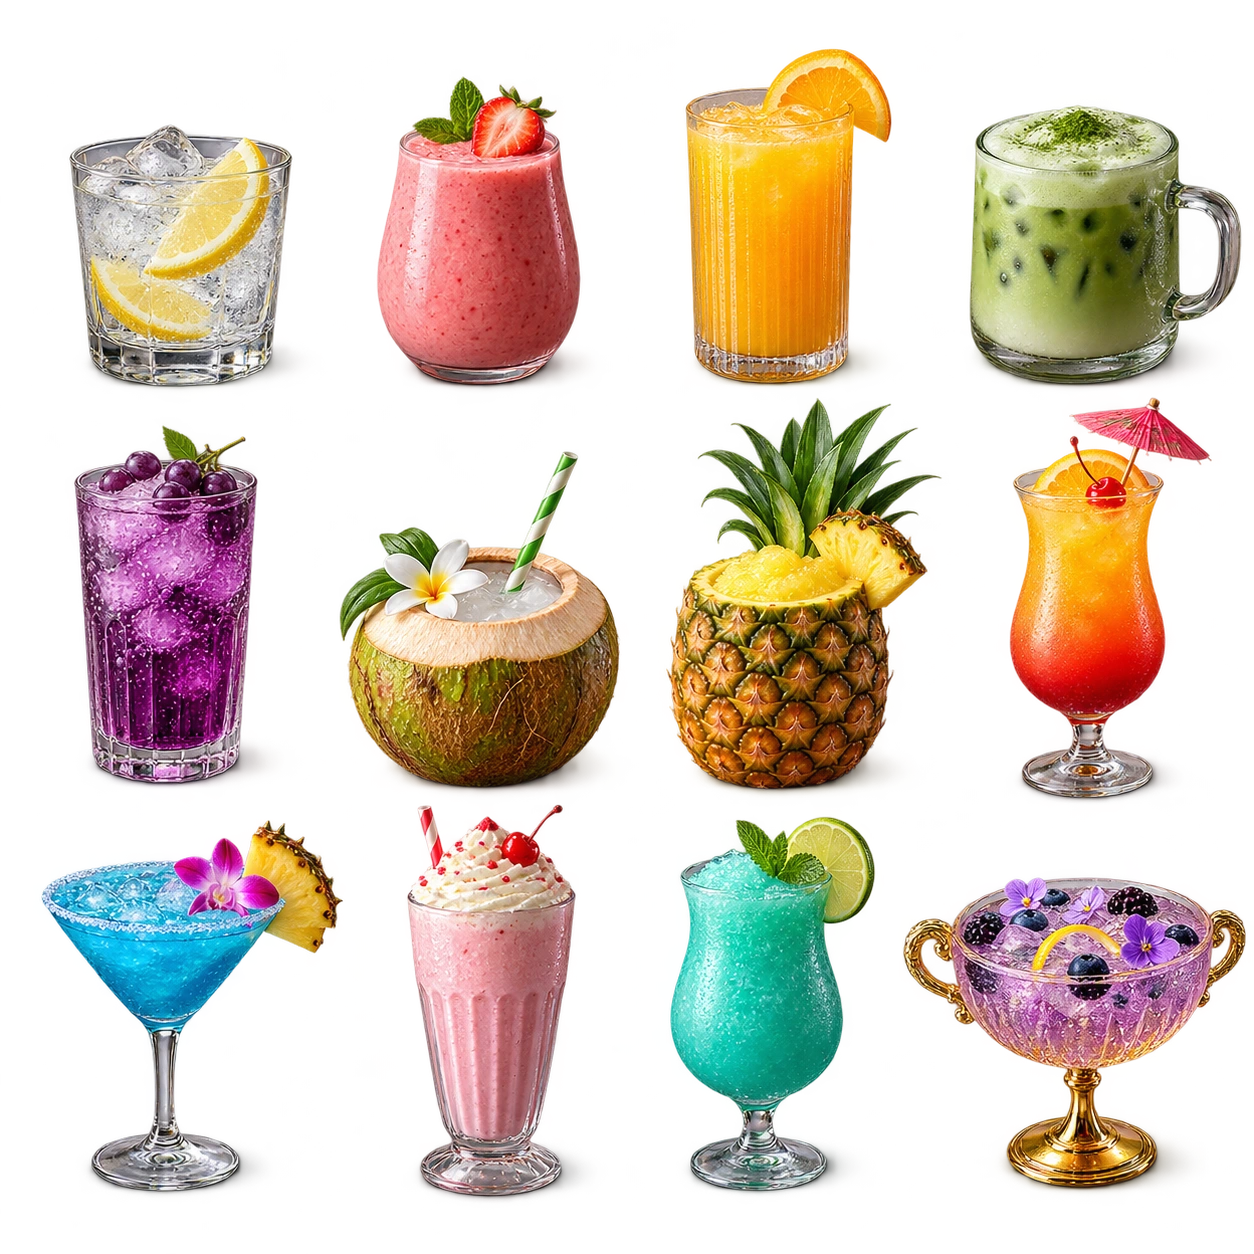
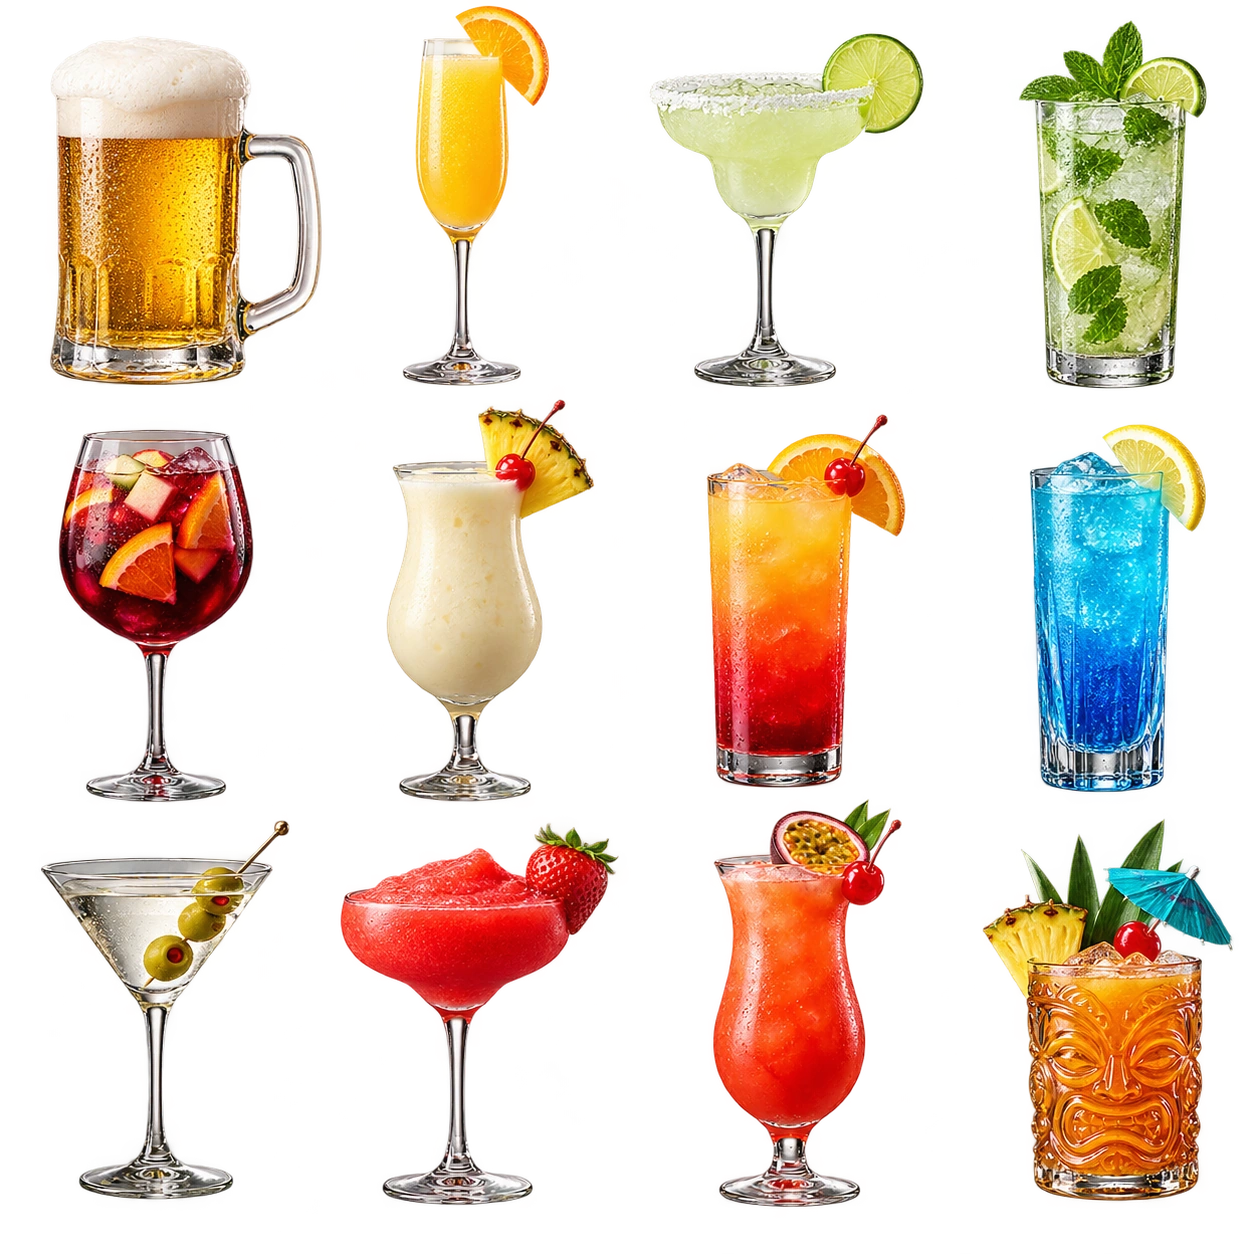
Add files via upload

diff --git a/games/juiceslide/game.js b/games/juiceslide/game.js
@@ -1,7 +1,9 @@
-(function(){'use strict';var A=Arcade,backdrop=new Image();backdrop.src='beach-board.webp';var atlas=new Image();atlas.src='drinks-atlas.webp';var s,drinks=[],effects=[],time=0,launchX=0,aimX=0,aimY=-1,dragging=false,wait=0,settle=0,ended=false;var labels=['Water','Berry','Citrus','Matcha','Grape soda','Coconut','Pineapple','Sunset','Blue lagoon','Milkshake','Slush','Royal punch'];var colors=['#9bd9ef','#ec466c','#f3ac35','#7dd456','#974bca','#f7e8ca','#f8d349','#ff895d','#5cbce7','#ff8dd5','#82e8e3','#d9beff'];function defaults(){return{physicsVersion:2,score:0,best:0,unlocked:2,next:1,shots:0,drinks:[]};}function init(){s=A.data;if(s.physicsVersion!==2){var old=s;s=defaults();s.best=old.best||0;s.unlocked=Math.max(2,old.unlocked||2);A.data=s;}drinks=Array.isArray(s.drinks)?s.drinks.map(function(d){return{x:d.x,y:d.y,tier:d.tier,r:radius(d.tier),vx:0,vy:0,age:2};}):[];if(!drinks.length){drinks=[make(-.45,.22,1),make(0,.22,2),make(.45,.22,1)];}document.getElementById('shoot').onclick=shoot;document.getElementById('swap').onclick=swap;hud();}function make(x,y,tier){return{x:x,y:y,tier:tier,r:radius(tier),vx:0,vy:0,age:0};}function radius(tier){return .13+Math.min(11,tier)*.016;}function save(){s.drinks=drinks.map(function(d){return{x:d.x,y:d.y,tier:d.tier};});A.save();}function hud(){A.hud(s.score+' pts','Best '+s.best+' · '+Math.min(12,s.unlocked)+'/12');}function restart(){var best=s.best,unlocked=s.unlocked;s=defaults();s.best=best;s.unlocked=unlocked;A.data=s;drinks=[make(-.45,.22,1),make(0,.22,2),make(.45,.22,1)];effects=[];wait=0;settle=0;ended=false;launchX=0;hud();save();}function swap(){if(wait>0||ended)return;s.next=s.next===1?2:1;A.beep(470,.07);hud();}function shoot(){if(wait>0||ended||A.dialogOpen())return;var d=make(launchX,2.22,s.next);d.vx=aimX*3.5;d.vy=aimY*3.5;d.travel=true;drinks.push(d);s.shots++;s.next=Math.random()<.57?1:Math.random()<.65?2:Math.min(3,s.unlocked);wait=.5;settle=0;A.beep(360,.1);hud();}function merge(i,j){var a=drinks[i],b=drinks[j],rank=Math.min(12,a.tier+1),x=(a.x+b.x)/2,y=(a.y+b.y)/2,vx=(a.vx+b.vx)*.4,vy=(a.vy+b.vy)*.4;drinks.splice(j,1);drinks.splice(i,1);var d=make(x,y,rank);d.vx=vx;d.vy=vy;drinks.push(d);var points=Math.pow(2,Math.min(rank,12))*5;s.score+=points;s.best=Math.max(s.best,s.score);effects.push({x:x,y:y,t:1,tier:rank,text:'+'+points});if(rank>s.unlocked){s.unlocked=rank;A.toast('NEW DRINK · '+labels[rank-1].toUpperCase());}A.beep(460+rank*55,.13);hud();save();}function tick(dt){time+=dt;wait=Math.max(0,wait-dt);if(ended)return;for(var sub=0;sub<4;sub++){var h=dt/4;for(var i=0;i<drinks.length;i++){var d=drinks[i];d.age+=h;d.x+=d.vx*h;d.y+=d.vy*h;var drag=d.travel?.22:2.8;d.vx*=Math.exp(-drag*h);d.vy*=Math.exp(-drag*h);if(d.x-d.r<-.95){d.x=-.95+d.r;d.vx=Math.abs(d.vx)*.7;}if(d.x+d.r>.95){d.x=.95-d.r;d.vx=-Math.abs(d.vx)*.7;}if(d.y-d.r<.06){d.y=.06+d.r;d.vy=Math.abs(d.vy)*.08;d.travel=false;}}
+(function(){'use strict';var A=Arcade,backdrop=new Image();backdrop.src='beach-board.webp';var atlas=new Image();atlas.src='drinks-atlas.webp';var s,drinks=[],effects=[],time=0,launchX=0,aimX=0,aimY=-1,dragging=false,wait=0,settle=0,ended=false;var labels=['Beer','Mimosa','Margarita','Mojito','Sangria','Piña colada','Tequila sunrise','Blue lagoon','Martini','Strawberry daiquiri','Hurricane','Rum punch'];var colors=['#e8a72c','#ffb339','#c5e76b','#73ce78','#b91956','#fff0c3','#ff6734','#20b8f1','#c5d8a0','#ed3656','#ff795b','#df9b35'];function defaults(){return{physicsVersion:2,score:0,best:0,unlocked:2,next:1,shots:0,drinks:[]};}function init(){s=A.data;if(s.physicsVersion!==2){var old=s;s=defaults();s.best=old.best||0;s.unlocked=Math.max(2,old.unlocked||2);A.data=s;}drinks=Array.isArray(s.drinks)?s.drinks.map(function(d){return{x:d.x,y:d.y,tier:d.tier,r:radius(d.tier),vx:0,vy:0,age:2};}):[];if(!drinks.length){drinks=[make(-.45,.22,1),make(0,.22,2),make(.45,.22,1)];}document.getElementById('shoot').onclick=shoot;document.getElementById('swap').onclick=swap;hud();}function make(x,y,tier){return{x:x,y:y,tier:tier,r:radius(tier),vx:0,vy:0,age:0};}function radius(tier){return .13+Math.min(11,tier)*.016;}function save(){s.drinks=drinks.map(function(d){return{x:d.x,y:d.y,tier:d.tier};});A.save();}function hud(){A.hud(s.score+' pts','Best '+s.best+' · '+Math.min(12,s.unlocked)+'/12');}function restart(){var best=s.best,unlocked=s.unlocked;s=defaults();s.best=best;s.unlocked=unlocked;A.data=s;drinks=[make(-.45,.22,1),make(0,.22,2),make(.45,.22,1)];effects=[];wait=0;settle=0;ended=false;launchX=0;hud();save();}function swap(){if(wait>0||ended)return;s.next=s.next===1?2:1;A.beep(470,.07);hud();}function shoot(){if(wait>0||ended||A.dialogOpen())return;var d=make(launchX,2.22,s.next);d.vx=aimX*3.5;d.vy=aimY*3.5;d.travel=true;drinks.push(d);s.shots++;s.next=Math.random()<.57?1:Math.random()<.65?2:Math.min(3,s.unlocked);wait=.5;settle=0;A.beep(360,.1);hud();}function merge(i,j){var a=drinks[i],b=drinks[j],rank=Math.min(12,a.tier+1),x=(a.x+b.x)/2,y=(a.y+b.y)/2,vx=(a.vx+b.vx)*.4,vy=(a.vy+b.vy)*.4;drinks.splice(j,1);drinks.splice(i,1);var d=make(x,y,rank);d.vx=vx;d.vy=vy;drinks.push(d);var points=Math.pow(2,Math.min(rank,12))*5;s.score+=points;s.best=Math.max(s.best,s.score);effects.push({x:x,y:y,t:1,tier:rank,text:'+'+points});if(rank>s.unlocked){s.unlocked=rank;A.toast('NEW DRINK · '+labels[rank-1].toUpperCase());}A.beep(460+rank*55,.13);hud();save();}function tick(dt){time+=dt;wait=Math.max(0,wait-dt);if(ended)return;for(var sub=0;sub<4;sub++){var h=dt/4;for(var i=0;i<drinks.length;i++){var d=drinks[i];d.age+=h;d.x+=d.vx*h;d.y+=d.vy*h;var drag=d.travel?.22:2.8;d.vx*=Math.exp(-drag*h);d.vy*=Math.exp(-drag*h);if(d.x-d.r<-.95){d.x=-.95+d.r;d.vx=Math.abs(d.vx)*.7;}if(d.x+d.r>.95){d.x=.95-d.r;d.vx=-Math.abs(d.vx)*.7;}if(d.y-d.r<.06){d.y=.06+d.r;d.vy=Math.abs(d.vy)*.08;d.travel=false;}}
  for(i=0;i<drinks.length;i++)for(var j=i+1;j<drinks.length;j++){var a=drinks[i],b=drinks[j],dx=b.x-a.x,dy=b.y-a.y,dist=Math.sqrt(dx*dx+dy*dy)||.00001,min=a.r+b.r;if(dist>=min)continue;a.travel=false;b.travel=false;if(a.tier===b.tier&&a.age>.12&&b.age>.12){merge(i,j);i=-1;break;}var nx=dx/dist,ny=dy/dist,over=(min-dist)*.5;a.x-=nx*over;a.y-=ny*over;b.x+=nx*over;b.y+=ny*over;var rel=(b.vx-a.vx)*nx+(b.vy-a.vy)*ny;if(rel<0){a.vx+=rel*nx*.7;a.vy+=rel*ny*.7;b.vx-=rel*nx*.7;b.vy-=rel*ny*.7;}}}
  effects=effects.filter(function(p){p.t-=dt;return p.t>0;});var speed=drinks.reduce(function(sum,d){return sum+Math.abs(d.vx)+Math.abs(d.vy);},0);settle=speed<.1?settle+dt:0;if(settle>.7&&drinks.some(function(d){return d.y+d.r>2.05&&d.age>1.2;})){ended=true;save();A.show('The table is full','<p>You scored '+s.score+' points. Merge matching drinks before they reach the launch line.</p>',[['Fresh table',restart,'primary']]);}if(Math.floor(time*2)!==Math.floor((time-dt)*2))save();}
 function table(W,H){var wide=W>H*1.3,top=H*.13,bottom=H*.85,width=Math.min(W*.89,wide?H*1.8:W*.89);return{x:W/2,top:top,h:bottom-top,w:width};}function project(x,y,W,H){var b=table(W,H),q=y/2.45,span=b.w*(.69+.31*q);return{x:b.x+x*span/2,y:b.top+q*b.h,scale:(.65+.35*q)};}function unproject(x,y){var b=table(A.w,A.h),q=(y-b.top)/b.h,span=b.w*(.69+.31*q);return{x:(x-b.x)/(span/2),y:q*2.45};}
-function glass(c,x,y,w,h,tier,scale){if(atlas.complete&&atlas.naturalWidth){var cw=atlas.naturalWidth/4,ch=atlas.naturalHeight/3,idx=Math.min(11,tier-1);c.drawImage(atlas,(idx%4)*cw,Math.floor(idx/4)*ch,cw,ch,x-w*.67,y-h*.70,w*1.34,h*1.18);}else{A.round(c,x-w/2,y-h/2,w,h,8,colors[tier-1]);}}
+// Individual source rectangles preserve wide glass handles and tall garnishes.
+var drinkRects=[[0,0,336,400],[360,0,240,395],[630,15,320,385],[990,0,264,400],[20,405,280,405],[350,388,260,422],[675,403,270,397],[985,405,245,405],[25,810,285,405],[325,810,305,405],[680,800,260,420],[960,810,294,410]];
+function glass(c,x,y,w,h,tier,scale){if(atlas.complete&&atlas.naturalWidth){var idx=Math.min(11,tier-1),rect=drinkRects[idx],sx=atlas.naturalWidth/1254,sy=atlas.naturalHeight/1254;c.drawImage(atlas,rect[0]*sx,rect[1]*sy,rect[2]*sx,rect[3]*sy,x-w*.67,y-h*.70,w*1.34,h*1.18);}else{A.round(c,x-w/2,y-h/2,w,h,8,colors[tier-1]);}}
 
-function draw(c,W,H){if(!A.viewport){if(backdrop.complete&&backdrop.naturalWidth)c.drawImage(backdrop,0,0,W,H);else{c.fillStyle='#48c2dc';c.fillRect(0,0,W,H);}}var b=table(W,H),a=project(-1,0,W,H),r=project(1,0,W,H),d=project(1,2.45,W,H),l=project(-1,2.45,W,H);c.shadowColor='#653012aa';c.shadowBlur=18;c.shadowOffsetY=12;c.beginPath();c.moveTo(a.x,a.y);c.lineTo(r.x,r.y);c.lineTo(d.x,d.y);c.lineTo(l.x,l.y);c.closePath();var wood=c.createLinearGradient(0,b.top,0,b.top+b.h);wood.addColorStop(0,'#ecac4f');wood.addColorStop(.5,'#d47b29');wood.addColorStop(1,'#b75c24');c.fillStyle=wood;c.fill();c.shadowBlur=0;c.shadowOffsetY=0;c.strokeStyle='#ffe5a0';c.lineWidth=5;c.stroke();for(var k=1;k<7;k++){var x=-1+k*2/7,u=project(x,0,W,H),v=project(x,2.45,W,H);c.strokeStyle='#8e431d60';c.lineWidth=2;c.beginPath();c.moveTo(u.x,u.y);c.lineTo(v.x,v.y);c.stroke();}for(k=0;k<34;k++){var y=(k*.073)%2.45,u=project(-.9+(k%4)*.48,y,W,H),v=project(-.6+(k%4)*.48,y+.008,W,H);c.strokeStyle='#ffe4a329';c.lineWidth=1;c.beginPath();c.moveTo(u.x,u.y);c.lineTo(v.x,v.y);c.stroke();}var launchL=project(-.95,2.05,W,H),launchR=project(.95,2.05,W,H);c.setLineDash([7,5]);c.strokeStyle='#fff7d7';c.lineWidth=2;c.beginPath();c.moveTo(launchL.x,launchL.y);c.lineTo(launchR.x,launchR.y);c.stroke();c.setLineDash([]);drinks.slice().sort(function(a,b){return a.y-b.y;}).forEach(function(d){var p=project(d.x,d.y,W,H),w=d.r*b.w*1.15*p.scale,h=w*1.55;glass(c,p.x,p.y-h*.22,w,h,d.tier,1);});var next=project(launchX,2.22,W,H),nr=radius(s.next),nw=nr*b.w*1.2;if(wait<=0){c.strokeStyle='#ffffffaa';c.setLineDash([4,7]);c.lineWidth=2;c.beginPath();c.moveTo(next.x,next.y-10);var end=project(launchX+aimX*.7,2.22+aimY*.7,W,H);c.lineTo(end.x,end.y);c.stroke();c.setLineDash([]);glass(c,next.x,next.y-nw*.3,nw,nw*1.55,s.next,1);}effects.forEach(function(e){var p=project(e.x,e.y,W,H);c.globalAlpha=e.t;c.strokeStyle=colors[Math.min(11,e.tier-1)];c.lineWidth=4;c.beginPath();c.arc(p.x,p.y,(1-e.t)*50+10,0,7);c.stroke();A.label(c,e.text,p.x,p.y-30-(1-e.t)*40,18,'#fff7c7');c.globalAlpha=1;});A.round(c,8,7,Math.min(142,W*.4),30,9,'#12558cde');A.label(c,'NEXT · '+labels[s.next-1].toUpperCase(),17,22,Math.min(12,W*.03),'#fff','left');A.round(c,W*.08,H*.91,W*.84,H*.065,9,'#113e65e8');for(k=1;k<=12;k++){var xx=W*.1+(k-.5)*W*.8/12;c.fillStyle=k<=s.unlocked?colors[k-1]:'#6d8798';c.beginPath();c.arc(xx,H*.94,Math.min(8,W*.015),0,7);c.fill();if(k<=s.unlocked)glass(c,xx,H*.94,Math.min(22,W*.047),Math.min(27,W*.06),k,1);}A.label(c,'SLIDE · COLLIDE · MERGE',W/2,H*.885,Math.min(11,W*.028),'#fff');}function aim(x,y){var p=unproject(x,y);if(p.y>=1.95){launchX=Math.max(-.75,Math.min(.75,p.x));aimX=0;aimY=-1;}else{var dx=p.x-launchX,dy=Math.min(-.2,p.y-2.22),len=Math.sqrt(dx*dx+dy*dy);aimX=dx/len;aimY=dy/len;}}function down(x,y){if(wait>0||ended)return;dragging=true;aim(x,y);}function drag(x,y){if(dragging)aim(x,y);}function up(x,y){if(!dragging)return;dragging=false;aim(x,y);shoot();}A.start({key:'goobs.juiceslide.v1',defaults:defaults,init:init,restart:restart,tick:tick,draw:draw,down:down,drag:drag,up:up,cancel:function(){dragging=false;},help:'<ul><li>Drag the waiting drink left or right along the launch line. Drag toward the table to aim an angled shot, then release.</li><li>Drinks slide and bump freely. Equal drinks merge into a new recipe when they touch.</li><li>Use side walls for bank shots. Keep settled drinks above the dashed launch line.</li><li>Swap changes the waiting drink; the row along the bottom shows your unlocked recipes.</li></ul>'});})();
+function draw(c,W,H){if(!A.viewport){if(backdrop.complete&&backdrop.naturalWidth)c.drawImage(backdrop,0,0,W,H);else{c.fillStyle='#48c2dc';c.fillRect(0,0,W,H);}}var b=table(W,H),a=project(-1,0,W,H),r=project(1,0,W,H),d=project(1,2.45,W,H),l=project(-1,2.45,W,H);c.shadowColor='#653012aa';c.shadowBlur=18;c.shadowOffsetY=12;c.beginPath();c.moveTo(a.x,a.y);c.lineTo(r.x,r.y);c.lineTo(d.x,d.y);c.lineTo(l.x,l.y);c.closePath();var wood=c.createLinearGradient(0,b.top,0,b.top+b.h);wood.addColorStop(0,'#ecac4f');wood.addColorStop(.5,'#d47b29');wood.addColorStop(1,'#b75c24');c.fillStyle=wood;c.fill();c.shadowBlur=0;c.shadowOffsetY=0;c.strokeStyle='#ffe5a0';c.lineWidth=5;c.stroke();for(var k=1;k<7;k++){var x=-1+k*2/7,u=project(x,0,W,H),v=project(x,2.45,W,H);c.strokeStyle='#8e431d60';c.lineWidth=2;c.beginPath();c.moveTo(u.x,u.y);c.lineTo(v.x,v.y);c.stroke();}for(k=0;k<34;k++){var y=(k*.073)%2.45,u=project(-.9+(k%4)*.48,y,W,H),v=project(-.6+(k%4)*.48,y+.008,W,H);c.strokeStyle='#ffe4a329';c.lineWidth=1;c.beginPath();c.moveTo(u.x,u.y);c.lineTo(v.x,v.y);c.stroke();}var launchL=project(-.95,2.05,W,H),launchR=project(.95,2.05,W,H);c.setLineDash([7,5]);c.strokeStyle='#fff7d7';c.lineWidth=2;c.beginPath();c.moveTo(launchL.x,launchL.y);c.lineTo(launchR.x,launchR.y);c.stroke();c.setLineDash([]);drinks.slice().sort(function(a,b){return a.y-b.y;}).forEach(function(d){var p=project(d.x,d.y,W,H),w=d.r*b.w*1.15*p.scale,h=w*1.55;glass(c,p.x,p.y-h*.22,w,h,d.tier,1);});var next=project(launchX,2.22,W,H),nr=radius(s.next),nw=nr*b.w*1.2;if(wait<=0){c.strokeStyle='#ffffffaa';c.setLineDash([4,7]);c.lineWidth=2;c.beginPath();c.moveTo(next.x,next.y-10);var end=project(launchX+aimX*.7,2.22+aimY*.7,W,H);c.lineTo(end.x,end.y);c.stroke();c.setLineDash([]);glass(c,next.x,next.y-nw*.3,nw,nw*1.55,s.next,1);}effects.forEach(function(e){var p=project(e.x,e.y,W,H);c.globalAlpha=e.t;c.strokeStyle=colors[Math.min(11,e.tier-1)];c.lineWidth=4;c.beginPath();c.arc(p.x,p.y,(1-e.t)*50+10,0,7);c.stroke();A.label(c,e.text,p.x,p.y-30-(1-e.t)*40,18,'#fff7c7');c.globalAlpha=1;});var nextLabel='NEXT · '+labels[s.next-1].toUpperCase(),badgeW=Math.min(195,W*.53);A.round(c,8,7,badgeW,30,9,'#12558cde');A.label(c,nextLabel,17,22,Math.min(12,W*.03,(badgeW-18)/(nextLabel.length*.66)),'#fff','left');A.round(c,W*.08,H*.91,W*.84,H*.065,9,'#113e65e8');for(k=1;k<=12;k++){var xx=W*.1+(k-.5)*W*.8/12;c.fillStyle=k<=s.unlocked?colors[k-1]:'#6d8798';c.beginPath();c.arc(xx,H*.94,Math.min(8,W*.015),0,7);c.fill();if(k<=s.unlocked)glass(c,xx,H*.94,Math.min(22,W*.047),Math.min(27,W*.06),k,1);}A.label(c,'SLIDE · COLLIDE · MERGE',W/2,H*.885,Math.min(11,W*.028),'#fff');}function aim(x,y){var p=unproject(x,y);if(p.y>=1.95){launchX=Math.max(-.75,Math.min(.75,p.x));aimX=0;aimY=-1;}else{var dx=p.x-launchX,dy=Math.min(-.2,p.y-2.22),len=Math.sqrt(dx*dx+dy*dy);aimX=dx/len;aimY=dy/len;}}function down(x,y){if(wait>0||ended)return;dragging=true;aim(x,y);}function drag(x,y){if(dragging)aim(x,y);}function up(x,y){if(!dragging)return;dragging=false;aim(x,y);shoot();}A.start({key:'goobs.juiceslide.v1',defaults:defaults,init:init,restart:restart,tick:tick,draw:draw,down:down,drag:drag,up:up,cancel:function(){dragging=false;},help:'<ul><li>Drag the waiting drink left or right along the launch line. Drag toward the table to aim an angled shot, then release.</li><li>Drinks slide and bump freely. Equal drinks merge into a new recipe when they touch.</li><li>Use side walls for bank shots. Keep settled drinks above the dashed launch line.</li><li>12 drinks: Beer, Mimosa, Margarita, Mojito, Sangria, Piña colada, Tequila sunrise, Blue lagoon, Martini, Strawberry daiquiri, Hurricane and Rum punch.</li><li>Swap changes the waiting drink; the row along the bottom shows your unlocked recipes.</li></ul>'});})();

diff --git a/sw.js b/sw.js
@@ -16,7 +16,7 @@ const VERSIONS = {
   "crowdcascade": "2.1.0",
   "neonbricks": "1.3.1",
   "harborescape": "1.3.1",
-  "juiceslide": "1.3.1",
+  "juiceslide": "1.4.0",
   "pixelvolley": "1.4.1",
   "skyward": "1.5.1",
   "citydash": "1.5.1",
